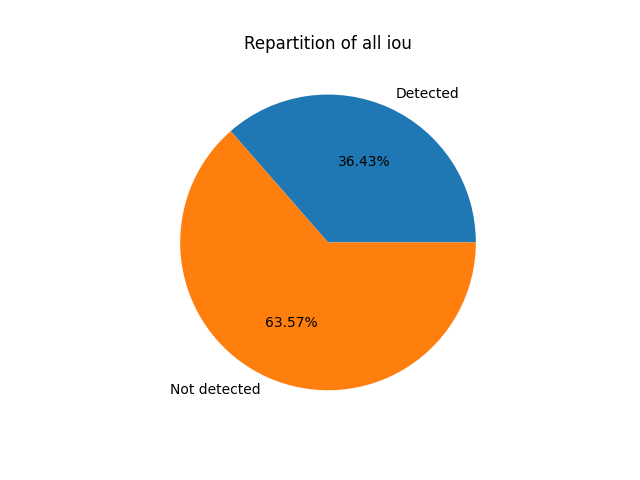
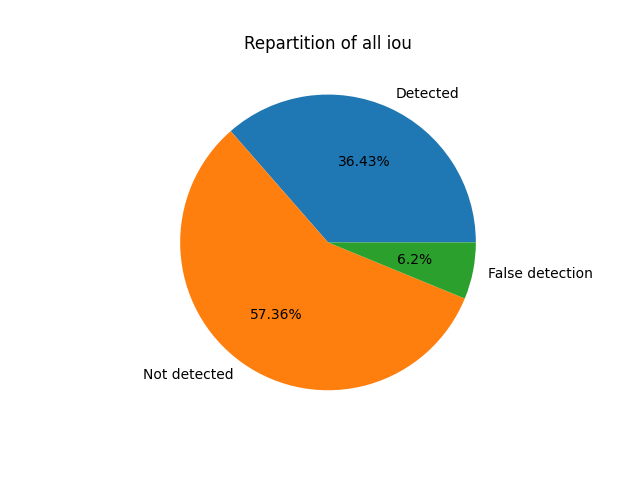
Model1

Changed region(s): [[0.5, 0.5, 0.9375, 0.625], [0.2188, 0.75, 0.4062, 0.8438], [0.4062, 0.625, 0.5, 0.6875]]

diff --git a/Code/model_test.py b/Code/model_test.py
@@ -142,16 +142,23 @@ def test_iou():
 def indicators(iou_list):
 	print('Indicators calculation ...')
 	detected = 0
+	not_detected=0
+	false_detection=0
 	porcentage = []
-	for iou in iou_list:
-		
+	for i in range(len(iou_list)):
+		iou = iou_list[i]
 		if iou!=0:
 			detected += 1
 			porcentage.append(iou)
+		else:
+			if bounding_box_predict[i]==[0,0,0,0]:
+				not_detected+=1
+			else:
+				false_detection+=1 
 
 	fig = plt.figure()
-	pie = [detected/len(iou_list),1-detected/len(iou_list)]
-	plt.pie(pie, labels=['Detected','Not detected'], autopct = lambda pie: str(round(pie, 2)) + '%')
+	pie = [detected/len(iou_list),not_detected/len(iou_list),false_detection/len(iou_list)]
+	plt.pie(pie, labels=['Detected','Not detected', 'False detection'], autopct = lambda pie: str(round(pie, 2)) + '%')
 	plt.title('Repartition of all iou')
 	plt.savefig("runs/analysis/pie_detected.png")
 	
